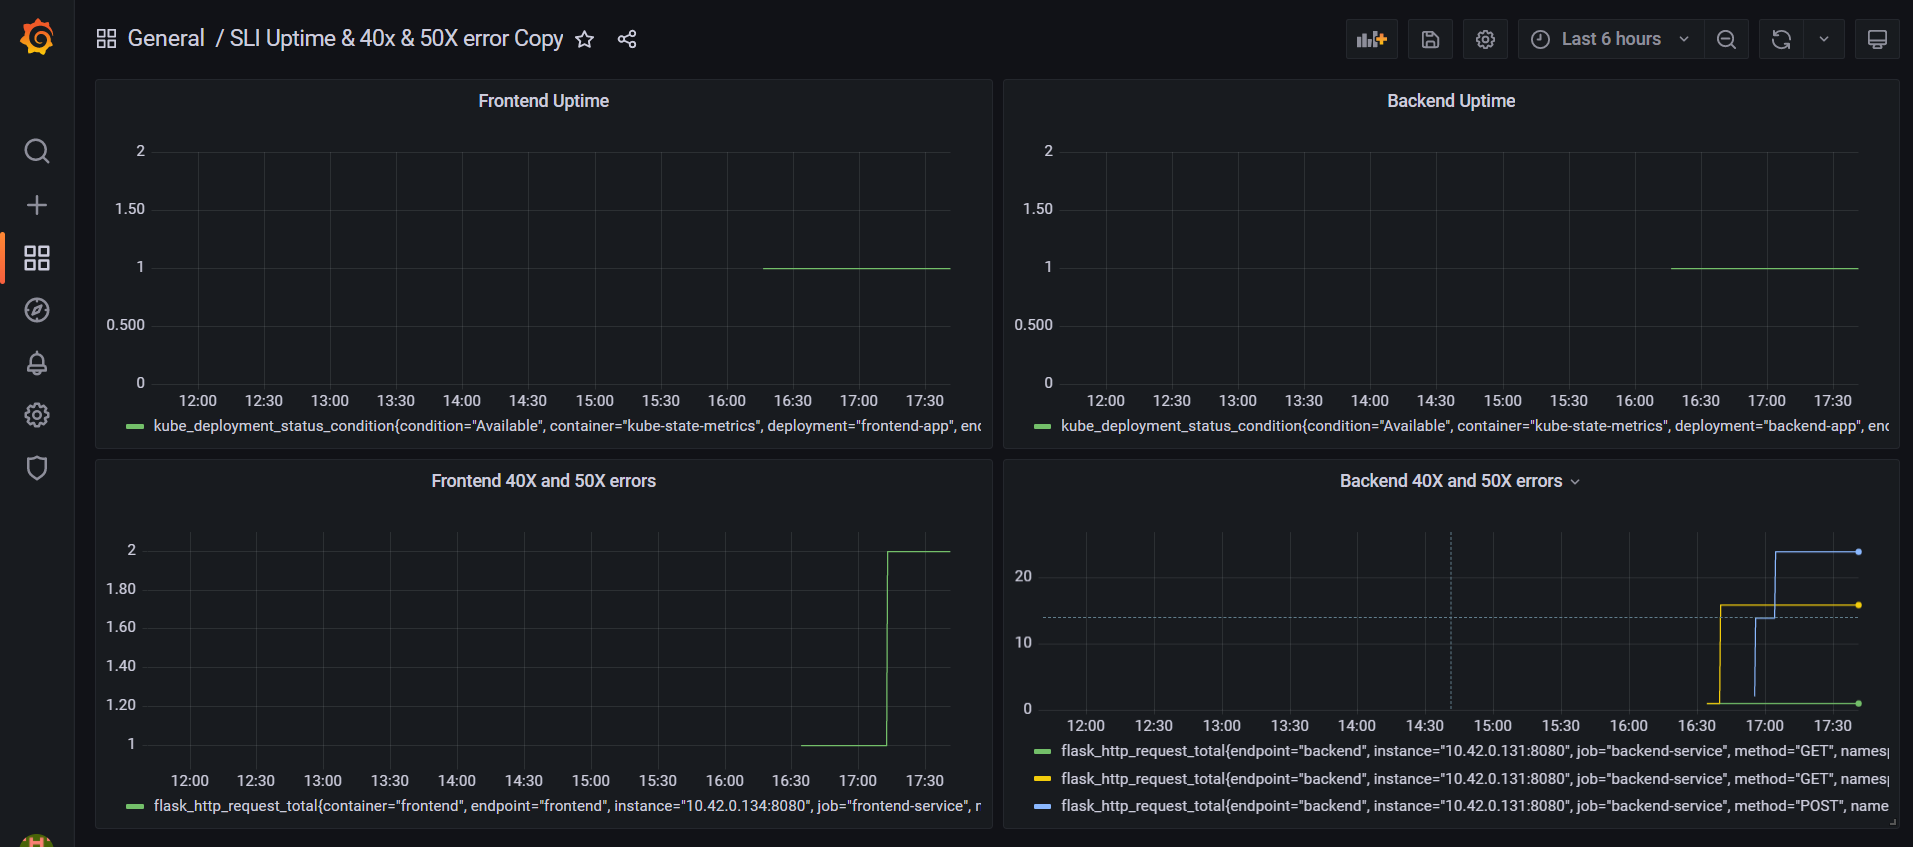
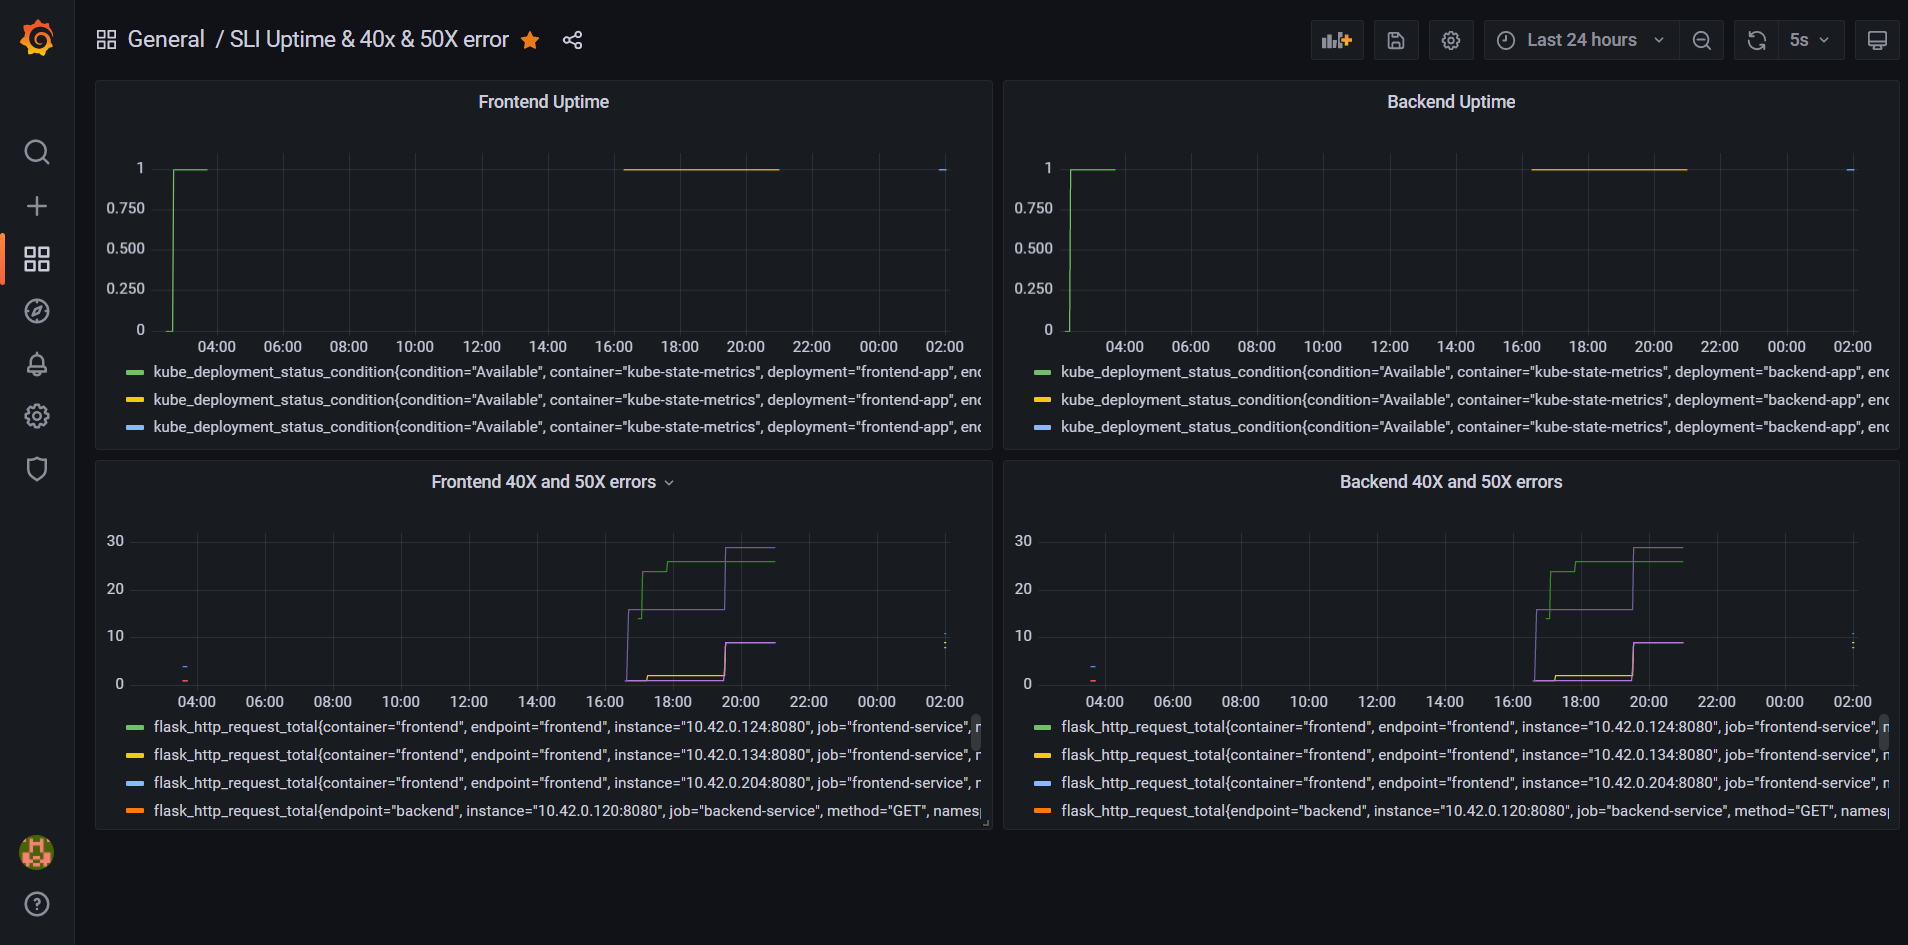
Updated README.md

diff --git a/README.md b/README.md
@@ -8,6 +8,7 @@
 
 
 ## Create a Basic Dashboard
+![grafana-prometheus](./answer-img/grafana-prometheus.png)
 ![grafana-basic](./answer-img/grafana-basic.png)
 
 ## Describe SLO/SLI
@@ -35,7 +36,9 @@ It is important to know why we want to measure certain metrics for our customers
 
 ## Report Error
 ![jaeger-span](./answer-img/jaeger-span.png)
-TROUBLE TICKET
+![jaeger-traces-error](./answer-img/jaeger-traces-error.png)
+
+### TROUBLE TICKET
 
 ```
 Name: POST Request to `localhost:8081/star` gives 500 error
@@ -88,4 +91,16 @@ Now that we have our SLIs and SLOs, create a list of 2-3 KPIs to accurately meas
 
 ![grafana-final](./answer-img/grafana-final.png)
 
-Note: Description in the Grafana Dashboard
+### Description:
+
+1. Average time is taken by the request for a response.
+2. Frontend service uptime status.
+3. Backend service uptime status.
+4. Frontend service 40x & 50x errors.
+5. Backend service 40x & 50x errors.
+6. Backend Memory usage.
+7. Frontend Memory usage.
+8. Number of requests received over 30sec.
+9. Number of requests received with 200 responses over 30sec.
+10. Frontend CPU usage.
+11. Backend CPU usage.
